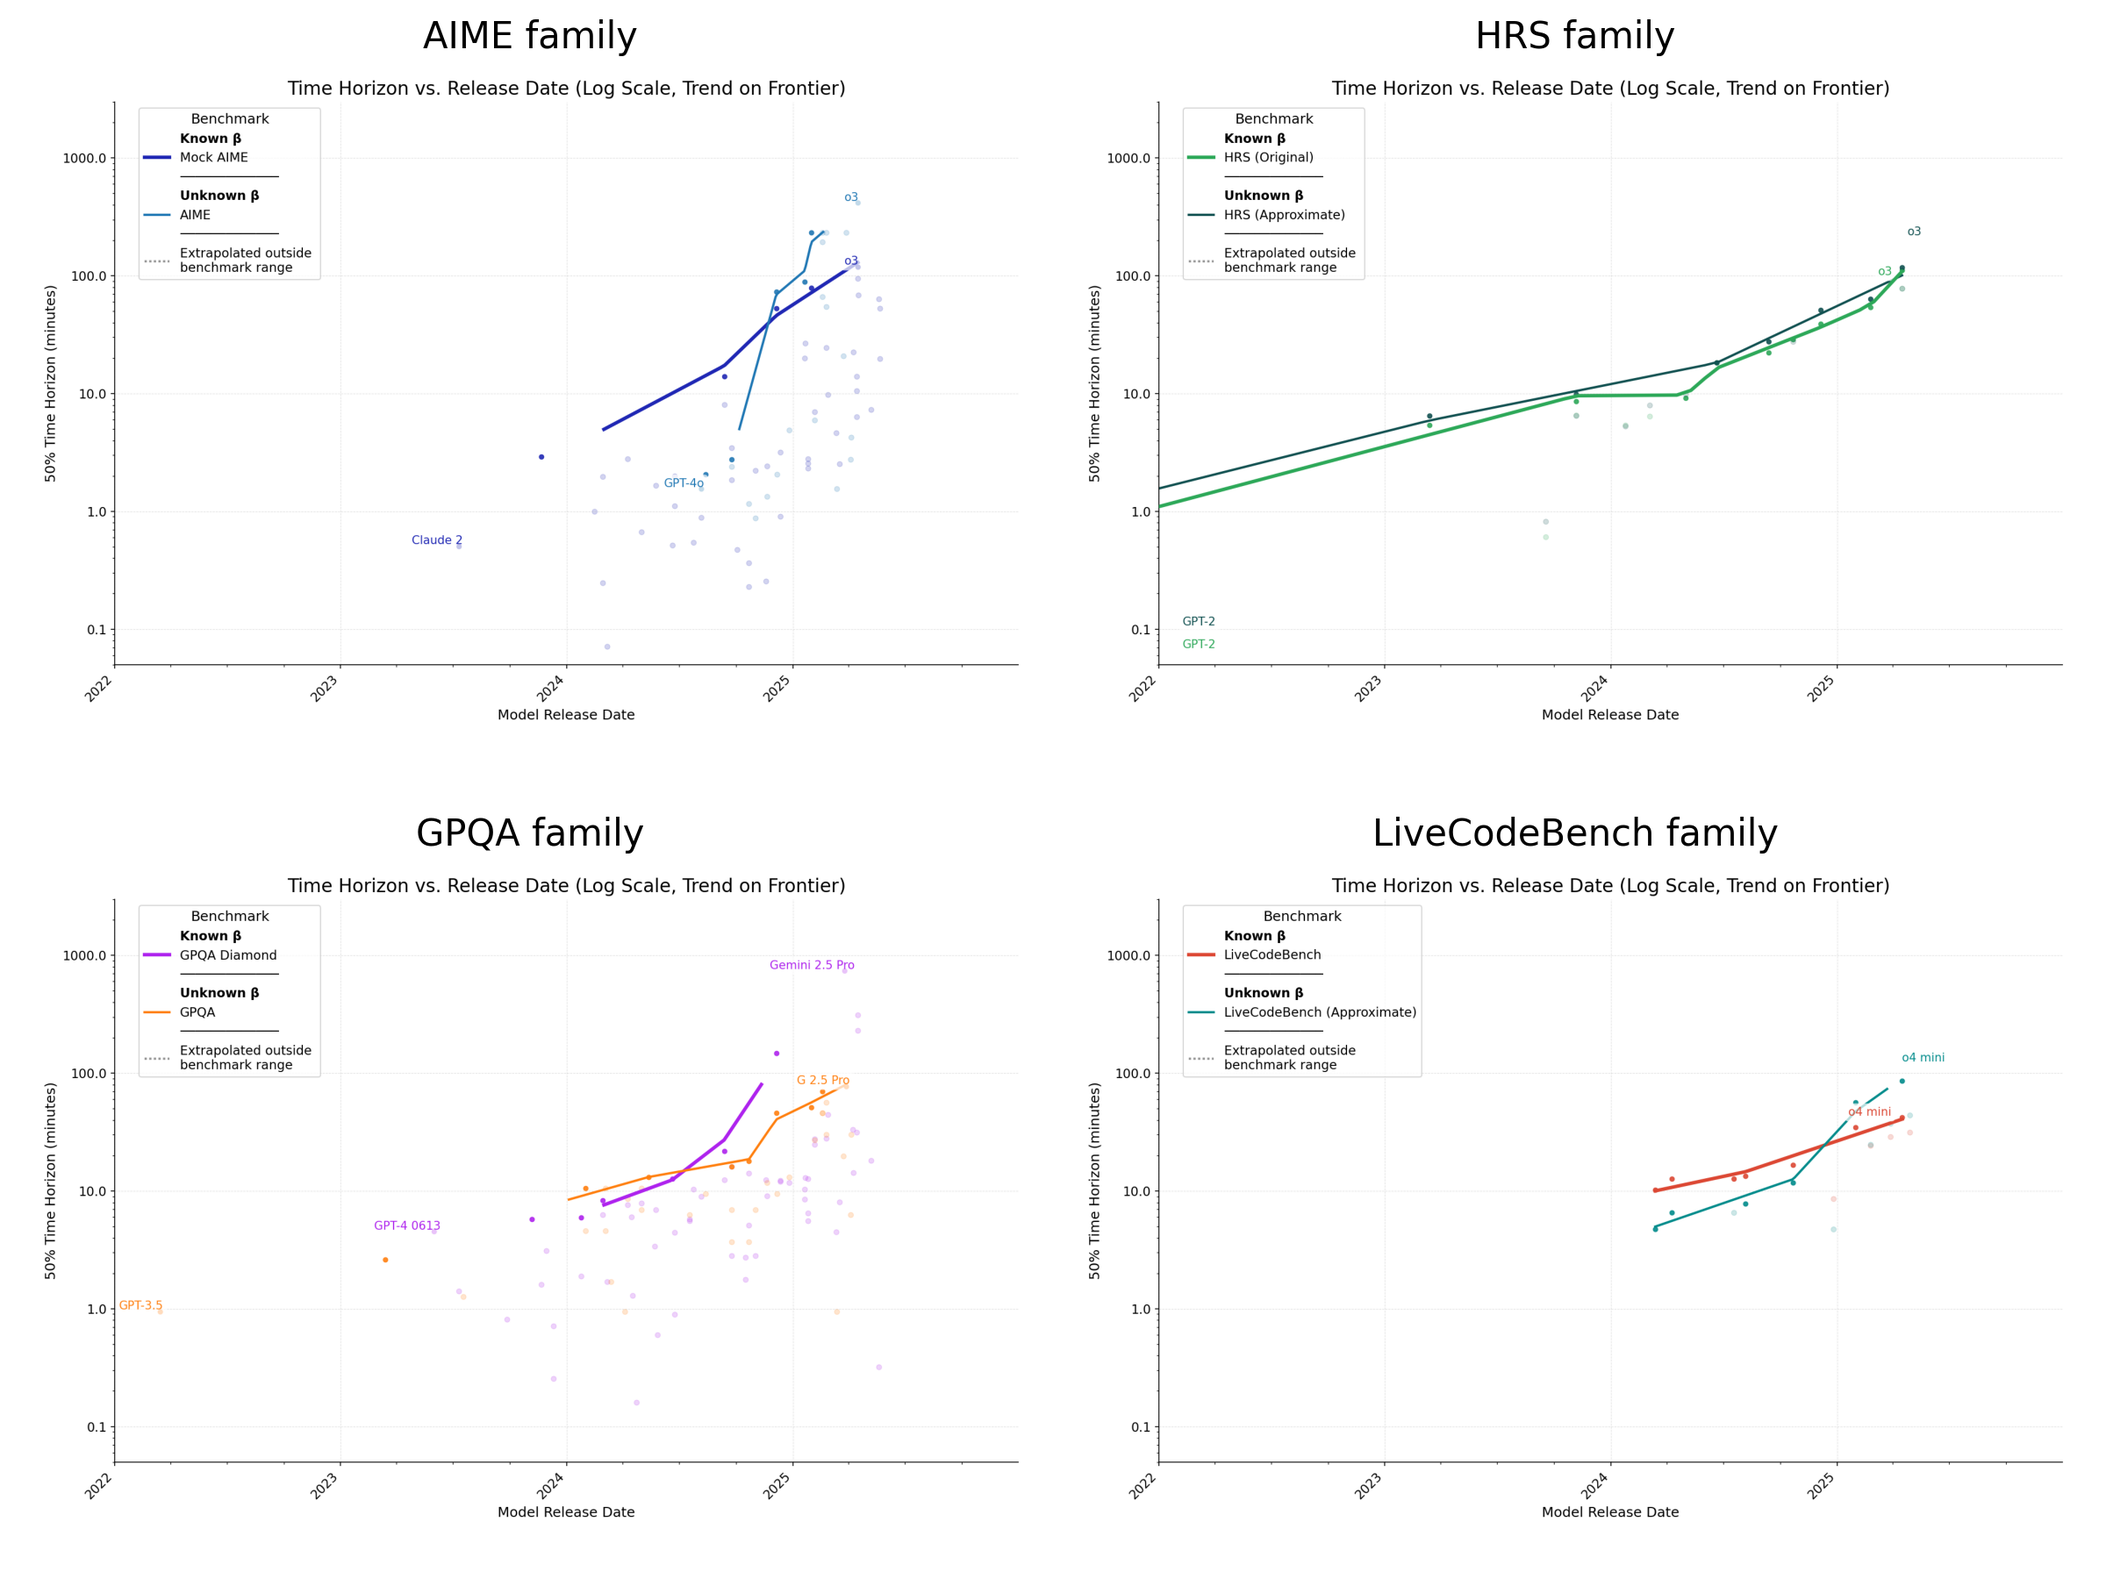
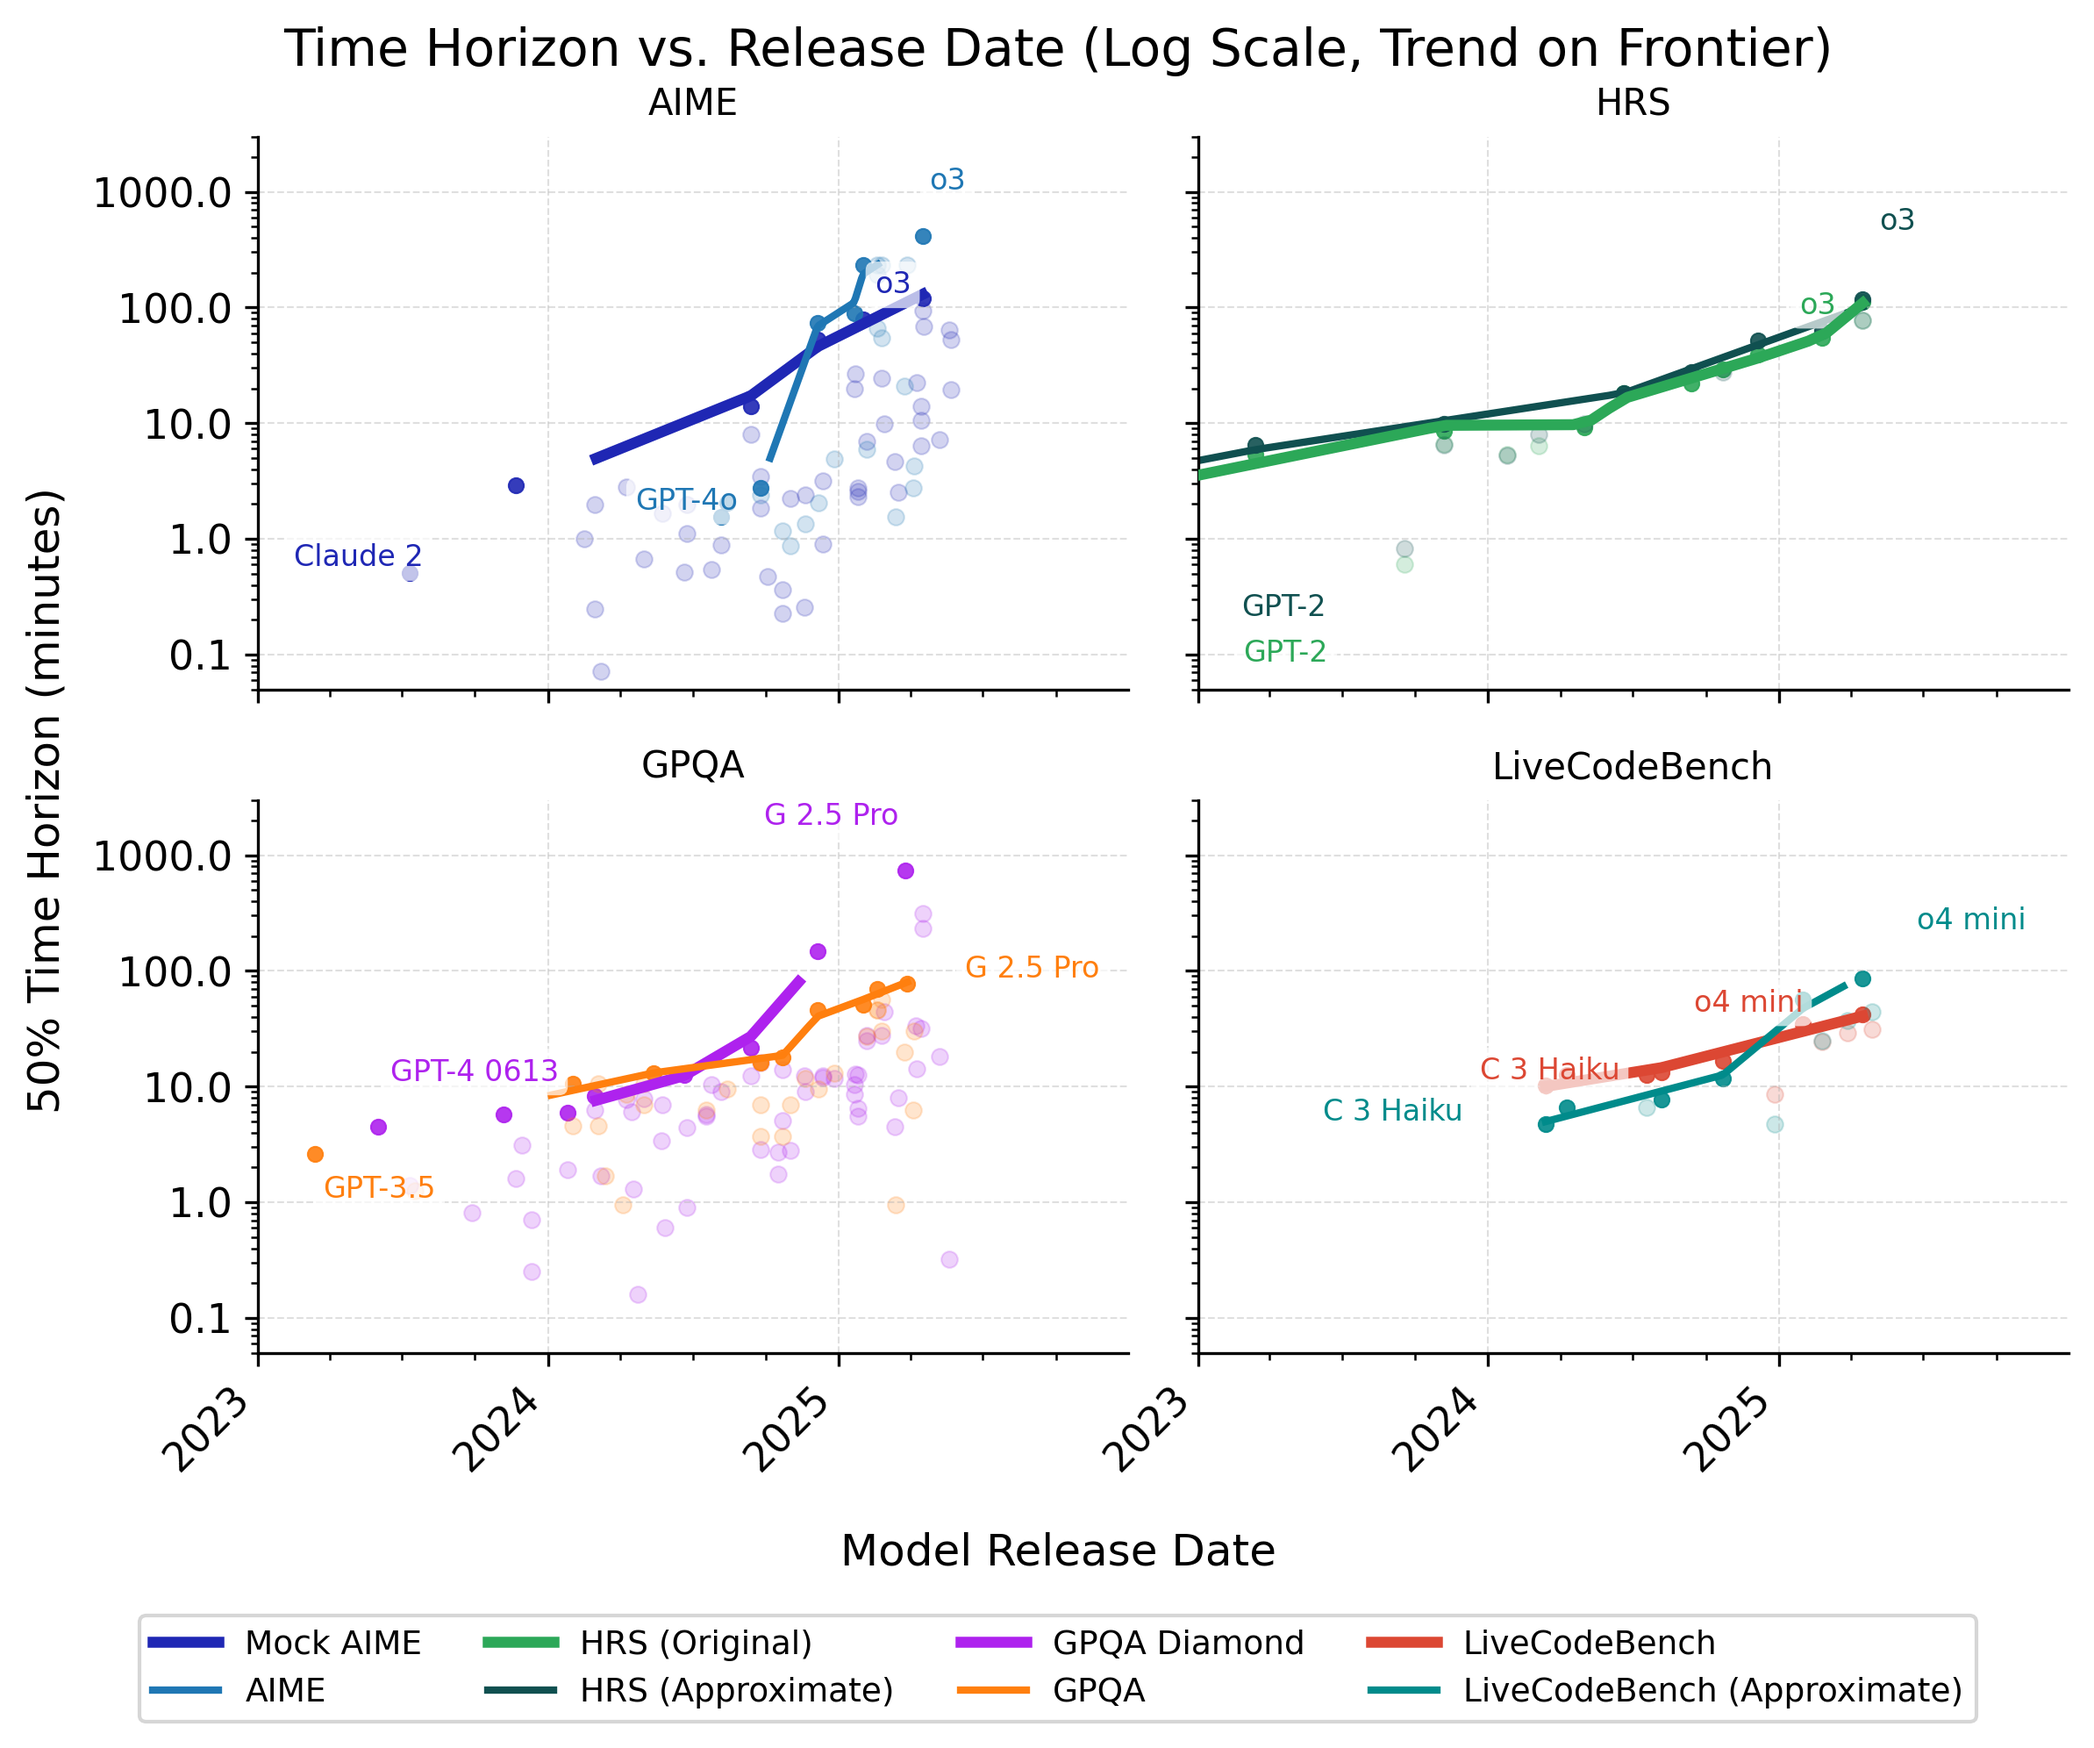
fix robustness subplots

diff --git a/plots.py b/plots.py
@@ -13,8 +13,6 @@ import pathlib
 import matplotlib.patheffects as patheffects
 import seaborn as sns
 import toml
-import tempfile
-import matplotlib.image as mpimg
 from scipy.interpolate import make_splrep
 from enum import Enum
 from dataclasses import dataclass, field
@@ -65,6 +63,8 @@ class LinesPlotParams:
     xbound: tuple[str, str] | None = None
     ybound: tuple[float, float] | None = None
     date_cutoff: date | None = date(2023, 1, 1)
+    skip_labels: bool = False  # New field to skip title and axis labels
+    skip_legend: bool = False  # New field to skip legend creation
 
 def add_watermark(ax=None, text="DRAFT\nDO NOT HYPE", alpha=0.35):
     """Add a watermark to the current plot or specified axes."""
@@ -194,9 +194,6 @@ def plot_lines_over_time(df, output_file,
         non_frontier_data = bench_data[~bench_data['is_frontier']]
 
         length_data = benchmark_data[benchmark_data['benchmark'] == bench]['length']
-        # Flag indicating whether any model for this benchmark has the special β (=0.6) value.
-        # This will later control whether the main (within-range) portion of the trend line
-        # is rendered dashed (β = 0.6) or solid (otherwise).
         has_placeholder_slope = benchmark_slope_info[benchmarks.index(bench)][1]
         p2 = length_data.quantile(0.02)
         p98 = length_data.quantile(0.98)
@@ -205,30 +202,6 @@ def plot_lines_over_time(df, output_file,
             p98 = 10**10
 
         def scatter_points(data, label, **kwargs):
-            # if 'slope' in data.columns and len(data) > 0:
-            #     # Plot each point individually with its own marker based on slope
-            #     for idx, row in data.iterrows():
-            #         slope_val = row['slope']
-            #         if pd.isna(slope_val):
-            #             marker = 'o'  # Keep as circle if slope is NaN
-            #         elif row['benchmark'] == 'hcast_r_s':
-            #             marker = '^'
-            #         else:
-            #             marker = 'x' if slope_val < 0.25 else 'o' if slope_val == 0.6 else '^'
-                    
-            #         # Only add label to the first point to avoid duplicate legend entries
-            #         point_label = label if idx == data.index[0] else None
-                    
-            #         ax.scatter(
-            #             row['release_date'],
-            #             row['horizon_minutes'],
-            #             color=color,
-            #             label=point_label,
-            #             marker=marker,
-            #             **kwargs
-            #         )
-            # else:
-                # Default to circles for all points
             ax.scatter(
                 data['release_date'],
                 data['horizon_minutes'],
@@ -256,9 +229,7 @@ def plot_lines_over_time(df, output_file,
             selected_data = frontier_data.iloc[[0, -1]] if params.show_points_level == ShowPointsLevel.FIRST_AND_LAST else frontier_data.iloc[[]]
             scatter_points(selected_data, f"_{bench}", alpha=0.9, s=30, linewidth=0.5)
 
-        # Fit and plot smoothing spline using only frontier points
         if len(frontier_data) >= 3:  # Need at least 3 points for spline
-            # Sort frontier data by release date for spline fitting
             frontier_sorted = frontier_data.sort_values('release_date_num')
             X = frontier_sorted['release_date_num'].values
             Y_log = frontier_sorted['log2_horizon_minutes'].values
@@ -332,17 +303,22 @@ def plot_lines_over_time(df, output_file,
                         y_offset = max(point['horizon_minutes'] * 1.5, 0.06)
                         va = 'bottom'
                     else:
-                        y_offset = point['horizon_minutes'] * 1.1  # 10% above the point
+                        # More offset for robustness subplots to reduce overlap
+                        is_robustness = ax is not None and not params.subplots
+                        offset_factor = 1.3 if is_robustness else 1.1
+                        y_offset = point['horizon_minutes'] * offset_factor
                         va = 'bottom'
                     
                     # Store actual data point coordinates
                     point_x = point['release_date']
                     point_y = point['horizon_minutes']
                     
+                    # Smaller font and no bbox for robustness subplots
+                    is_robustness = ax is not None and not params.subplots
                     text_obj = ax.text(point['release_date'],
                                       y_offset,
                                       model_name,
-                                      fontsize=8 if params.subplots else 10, 
+                                      fontsize=8 if is_robustness else 10,
                                       color=color,
                                       ha='center',
                                       va=va,
@@ -370,10 +346,12 @@ def plot_lines_over_time(df, output_file,
         fig.suptitle(params.title)
         fig.supxlabel("Model Release Date")
         fig.supylabel("50% Time Horizon (minutes)")
-    else:
+    elif not params.skip_labels:
         plt.xlabel("Model Release Date")
         plt.ylabel("50% Time Horizon (minutes)")
         plt.title(params.title)
+        ax.grid(True, which="major", ls="--", linewidth=0.5, alpha=0.4)
+    else:
         ax.grid(True, which="major", ls="--", linewidth=0.5, alpha=0.4)
 
 
@@ -442,7 +420,7 @@ def plot_lines_over_time(df, output_file,
     labels.append("Extrapolated outside \nbenchmark range")
 
     
-    if not params.subplots:
+    if not params.subplots and not params.skip_legend:
         bench_legend = ax.legend(handles=handles, labels=labels, title='Benchmark', bbox_to_anchor=(0.02, 1), loc='upper left')
         
         # Make section headings bold and left-aligned
@@ -452,10 +430,10 @@ def plot_lines_over_time(df, output_file,
                 plt.setp(text, text=text.get_text().strip('*'), weight='bold', 
                         position=(x - 0.05, y), ha='left')
 
+    if not params.subplots:
         if texts:
             adjustText.adjust_text(texts, ax=ax,
-                                points=points,
-                                only_move={'points':'y', 'texts':'y'})
+                                points=points)
 
         add_watermark(ax)
 
@@ -489,9 +467,11 @@ def plot_lines_over_time(df, output_file,
         if texts:
             adjustText.adjust_text(texts, ax=ax)
 
-    plt.tight_layout()
+    # Only apply tight_layout and save if we created the figure
+    if ax is None or params.subplots:
+        plt.tight_layout()
 
-    if output_file:
+    if output_file and (ax is None or params.subplots):
         fig.savefig(output_file)
         plt.close(fig)
 
@@ -839,12 +819,10 @@ def plot_percent_over_time(df, output_file):
     plt.close(fig)
 
 def _plot_bench_group(ax, df, benchmark_data, benches, params, date_cutoff, x_bound=None):
-    tmp_png = os.path.join(tempfile.gettempdir(), "tmp_plot.png")
-
-    # draw the mini-plot and save it to a file
+    # Draw directly on the provided axes
     plot_lines_over_time(
         df.copy(),
-        output_file=tmp_png,
+        output_file=None,  # Don't save to file
         benchmark_data=benchmark_data,
         params=dataclasses.replace(
             params,
@@ -852,13 +830,12 @@ def _plot_bench_group(ax, df, benchmark_data, benches, params, date_cutoff, x_bo
             hide_benchmarks=[],
             subplots=False,
             date_cutoff=date_cutoff,
-            xbound=x_bound
+            xbound=x_bound,
+            skip_labels=True,  # Skip individual labels
+            skip_legend=True  # Skip individual legends
         ),
-    )
-
-    # paste it into the ta
-    ax.imshow(mpimg.imread(tmp_png))
-    ax.axis("off")        
+        ax=ax  # Pass the axes directly
+    )        
 
 
 def plot_robustness_subplots(df: pd.DataFrame,
@@ -890,7 +867,7 @@ def plot_robustness_subplots(df: pd.DataFrame,
         date_cutoff=date(2025, 1, 1),
         x_bound=("2023-01-01", "2025-12-31")
     )
-    axs_flat[0].set_title("AIME family", fontsize=10)
+    axs_flat[0].set_title("AIME", fontsize=10)
 
     # Top-right – HRS family
     _plot_bench_group(
@@ -901,7 +878,7 @@ def plot_robustness_subplots(df: pd.DataFrame,
         params=common_params,
         date_cutoff=date(2025, 1, 1)
     )
-    axs_flat[1].set_title("HRS family", fontsize=10)
+    axs_flat[1].set_title("HRS", fontsize=10)
 
     # Bottom-left – GPQA family
     _plot_bench_group(
@@ -912,7 +889,7 @@ def plot_robustness_subplots(df: pd.DataFrame,
         params=common_params,
         date_cutoff=date(2025, 1, 1)
     )
-    axs_flat[2].set_title("GPQA family", fontsize=10)
+    axs_flat[2].set_title("GPQA", fontsize=10)
 
     _plot_bench_group(
         ax=axs_flat[3],
@@ -920,18 +897,41 @@ def plot_robustness_subplots(df: pd.DataFrame,
         benchmark_data=benchmark_data,
         benches=["livecodebench_2411_2505","livecodebench_2411_2505_approx"],
         params=common_params,
-        date_cutoff=date(2024, 1, 1),
+        date_cutoff=date(2025, 1, 1),
         x_bound=("2023-01-01", "2025-12-31")
     )
-    axs_flat[3].set_title("LiveCodeBench family", fontsize=10)
+    axs_flat[3].set_title("LiveCodeBench", fontsize=10)
 
 
-    # Tighten spacing between panels
-    fig.tight_layout(pad=1.0)
-    fig.subplots_adjust(wspace=0.05, hspace=0.15)
+    # Create a shared legend by getting handles and labels from all subplots
+    all_handles = []
+    all_labels = []
+    seen_labels = set()
+    
+    # Collect unique legend entries from all axes
+    for ax in axs_flat[:4]:  # Only the 4 subplots we're using
+        handles, labels = ax.get_legend_handles_labels()
+        for handle, label in zip(handles, labels):
+            if label not in seen_labels and not label.startswith('_'):
+                all_handles.append(handle)
+                all_labels.append(label)
+                seen_labels.add(label)
+    
+    # Add global title and axis labels
+    fig.suptitle("Time Horizon vs. Release Date (Log Scale, Trend on Frontier)", fontsize=14, y=0.99)
+    fig.supxlabel("Model Release Date", fontsize=12, y=0.01)
+    fig.supylabel("50% Time Horizon (minutes)", fontsize=12, x=0.01)
+    
+    # Create shared legend at the bottom
+    fig.legend(all_handles, all_labels, loc='center', bbox_to_anchor=(0.5, -0.05), 
+               ncol=min(4, len(all_handles)), frameon=True, fontsize=9)
+    
+    # Adjust layout with more space for legend and labels
+    fig.tight_layout(pad=1.5)
+    fig.subplots_adjust(wspace=0.08, hspace=0.20, top=0.92, bottom=0.15, left=0.12, right=0.98)
 
     os.makedirs(os.path.dirname(output_file), exist_ok=True)
-    fig.savefig(output_file, dpi=300)
+    fig.savefig(output_file, dpi=300, bbox_inches='tight')
     plt.close(fig)
     print(f"Robustness subplots saved to {output_file}")
 

diff --git a/plotting_aliases.py b/plotting_aliases.py
@@ -53,13 +53,12 @@ plotting_aliases = {
     "o3_mini_2025_01_31": "o3 mini",
     "o3_2025_04_16": "o3",
     "o4_mini": "o4 mini",
-    "gpt_3_5": "GPT-3.5",
     "gpt_4_0613": "GPT-4 0613",
     "gpt_4o_2024_08_06": "GPT-4o",
     "claude_2_0": "Claude 2",
     "claude_3_5_sonnet_20240620": "Sonnet 3.5",
     "claude_sonnet_4_20250514": "Sonnet 4",
-    "gemini_2_5_pro_exp_03_25": "Gemini 2.5 Pro",
+    "gemini_2_5_pro_exp_03_25": "G 2.5 Pro",
     "claude_3_7_sonnet_20250219": "Sonnet 3.7",
     "gpt_4_1106_preview": "GPT-4 Turbo",
     "openai_gpt_4_vision": "GPT-4V",
